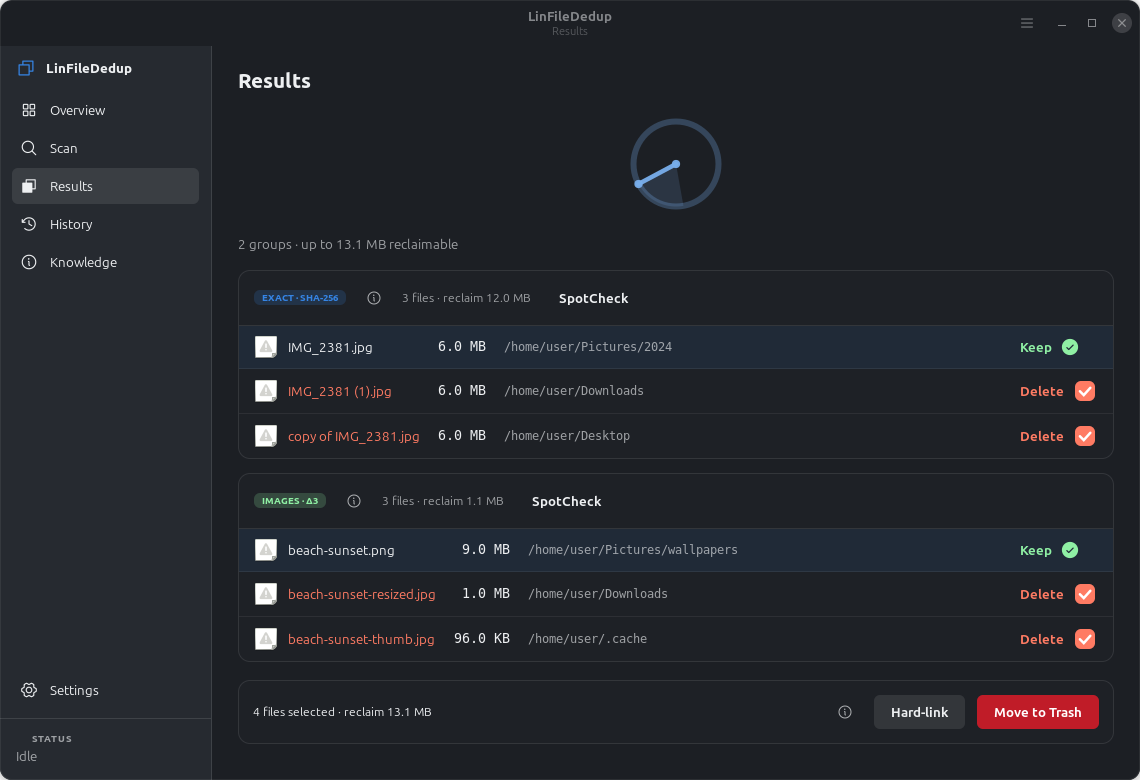
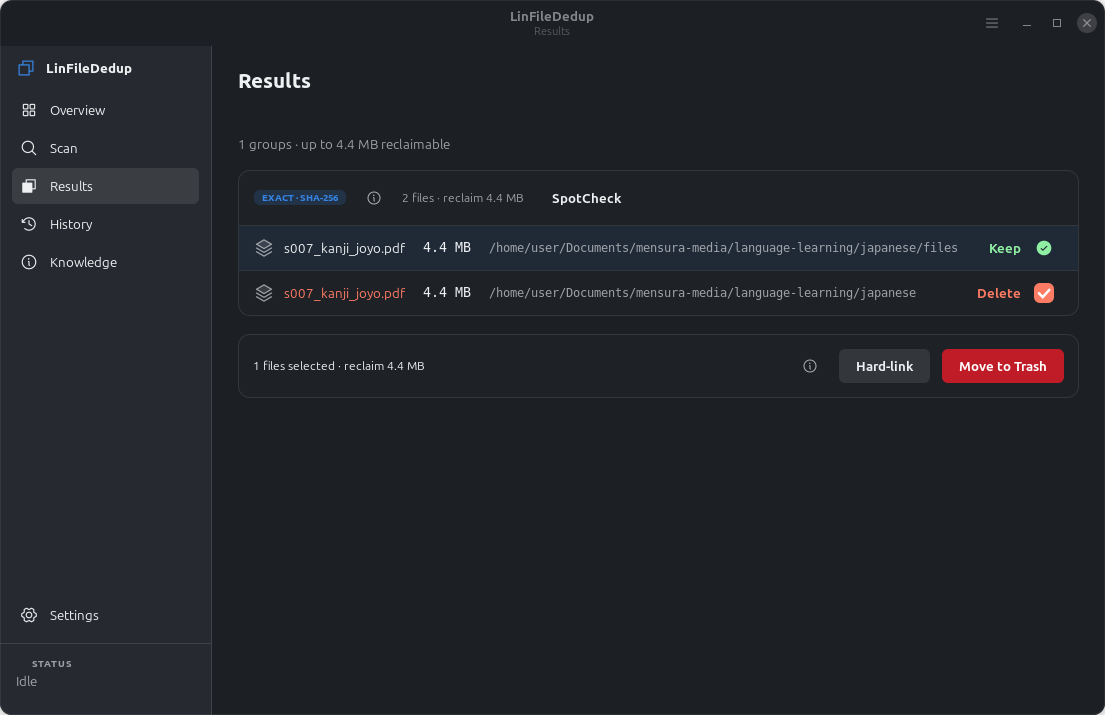
Polish: align Keep/Delete markers, lift sidebar footer, clearer hard-link help
- Results: the "Keep"+circle and "Delete"+checkbox markers now sit in an equal
  fixed 26px slot with the label right-aligned beside them, so they line up across
  rows and are never clipped at the card edge.
- Sidebar: lifted the Settings / STATUS footer up (~10px).
- Glossary: rewrote the hard-link description to be clearer and more complete.
30 tests pass.

diff --git a/data/css/app.css b/data/css/app.css
@@ -23,7 +23,7 @@
   font-size: 0.72em; font-weight: 800; letter-spacing: 1px;
   margin: 6px 16px 2px; opacity: 0.6;
 }
-.app-footer { border-top: 1px solid alpha(@window_fg_color, 0.12); padding: 8px 16px 4px; margin-top: 4px; margin-bottom: 12px; }
+.app-footer { border-top: 1px solid alpha(@window_fg_color, 0.12); padding: 8px 16px 4px; margin-top: 4px; margin-bottom: 22px; }
 
 .app-live-dot { min-width: 8px; min-height: 8px; border-radius: 50%; background-color: @success_color; margin: 0 2px; }
 @keyframes app-breathe { 0% { opacity: 0.25; } 50% { opacity: 1; } 100% { opacity: 0.25; } }

diff --git a/src/linfilededuplication/ui/pages/results.py b/src/linfilededuplication/ui/pages/results.py
@@ -176,29 +176,30 @@ class ResultsPage(BasePage):
         path.set_tooltip_text(f.path)
         row.append(path)
 
-        # column 4: "Keep" + green circle, or "Delete" + red check (aligned across rows)
-        sel = Gtk.Box(spacing=8, halign=Gtk.Align.END)
+        # column 4: "Keep" + green circle, or "Delete" + red check.
+        # The label is right-aligned and the marker sits in an equal fixed slot, so the
+        # markers line up across rows and are never clipped at the card edge.
+        sel = Gtk.Box(spacing=10)
         sel.set_valign(Gtk.Align.CENTER)
+        sel.set_margin_end(6)
+        lbl = Gtk.Label(label=_("Keep") if f.keeper else _("Delete"), xalign=1.0, hexpand=True)
+        lbl.add_css_class("app-keep-text" if f.keeper else "app-del-text")
+        sel.append(lbl)
         if f.keeper:
-            lbl = Gtk.Label(label=_("Keep"))
-            lbl.add_css_class("app-keep-text")
-            marker = icon("app-status-success-symbolic", 20)
+            marker = icon("app-status-success-symbolic", 18)
             marker.add_css_class("app-keep-check")
             marker.set_tooltip_text(_("Kept"))
-            sel.append(lbl)
-            sel.append(marker)
         else:
-            lbl = Gtk.Label(label=_("Delete"))
-            lbl.add_css_class("app-del-text")
-            check = Gtk.CheckButton()
-            check.add_css_class("app-del-check")
-            check.set_active(True)
-            check.set_valign(Gtk.Align.CENTER)
-            check.set_tooltip_text(_("Marked for removal"))
-            check.connect("toggled", lambda _c: self._refresh_selection())
-            record["checks"].append((check, f))
-            sel.append(lbl)
-            sel.append(check)
+            marker = Gtk.CheckButton()
+            marker.add_css_class("app-del-check")
+            marker.set_active(True)
+            marker.set_tooltip_text(_("Marked for removal"))
+            marker.connect("toggled", lambda _c: self._refresh_selection())
+            record["checks"].append((marker, f))
+        marker.set_size_request(26, 26)
+        marker.set_halign(Gtk.Align.CENTER)
+        marker.set_valign(Gtk.Align.CENTER)
+        sel.append(marker)
         sel_sg.add_widget(sel)
         row.append(sel)
         return row

diff --git a/changelog.md b/changelog.md
@@ -27,3 +27,4 @@ Append-only. Format: `| ISO-8601 datetime | description |`.
 | 2026-09-29 | Logging now actually works: file log populates (startup banner, lifecycle, scan start/finish, destructive-action outcomes) + GLib/GTK message capture + Python excepthook, to ~/.local/state/<app-id>/linfilededuplication.log. |
 | 2026-09-29 | Visual pass: app now uses the approved mockup palette (content darker than sidebar, lighter top bar) via theme_loader token overrides for both themes + system-follow; sidebar footer nudged up; radar moved below the Results title at 100px (removed the "Run a scan…"/"Scanning" text); Results rows show green "Keep"+circle and red "Delete"+checkbox aligned, with the deletion filename in red. |
 | 2026-09-29 | Fix app icon showing as a gear in the menu/panel/tray: the per-user hicolor theme had no index.theme so the icon never resolved; install.sh now lays down index.theme and force-rebuilds the icon cache (build-deb postinst forces it too). Icon now resolves (Phosphor copy + check-circle). |
+| 2026-09-29 | Results/sidebar polish: aligned the Keep/Delete markers in an equal fixed slot with right-aligned labels (no clipping); nudged the sidebar Settings/STATUS footer up ~10px; improved the hard-link info-icon description. |
